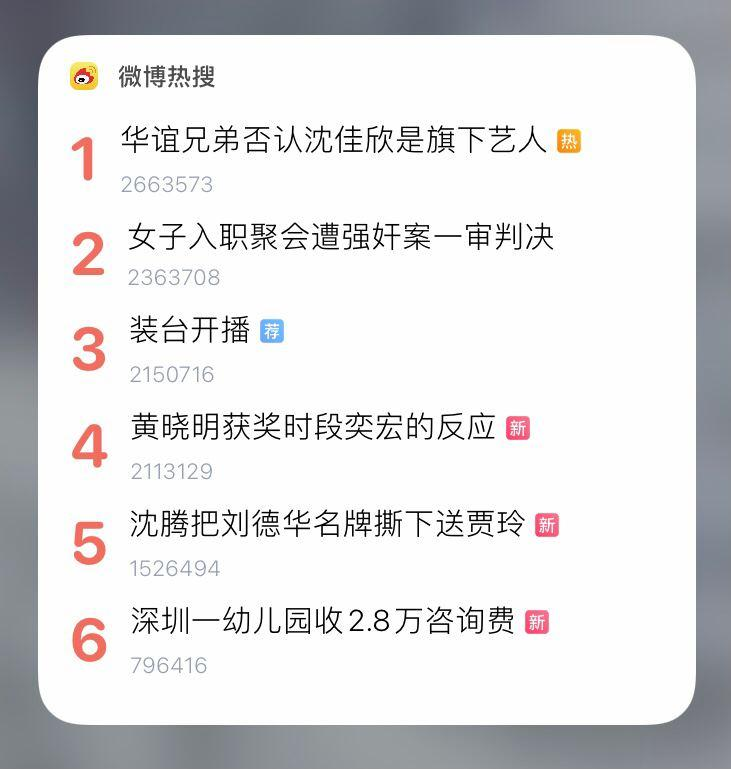
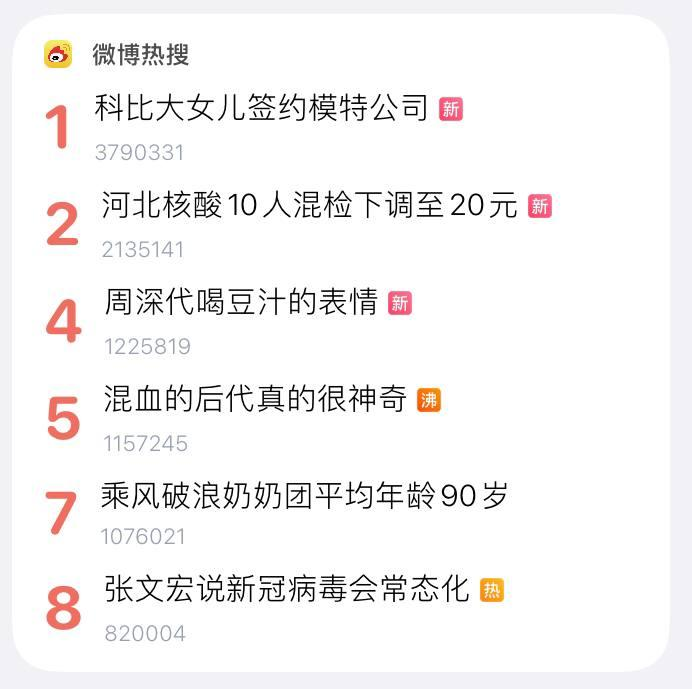
update 微博热搜，去除广告

diff --git a/微博热搜.js b/微博热搜.js
@@ -726,7 +726,7 @@ const Running = async (Widget, default_args = "") => {
       const alert = new Alert()
       alert.title = M.name
       alert.message = M.desc
-      // alert.addAction("反馈交流")
+      alert.addAction("反馈交流")
       for (let _ in actions) {
         alert.addAction(_)
         _actions.push(actions[_])
@@ -778,7 +778,6 @@ class Widget extends Base {
     // 去除第一条
     data.shift()
     let topic = data[0]
-    console.log(topic)
     // 显示数据
     let w = new ListWidget()
     w = await this.renderHeader(w, 'https://ss2.bdstatic.com/70cFvnSh_Q1YnxGkpoWK1HF6hhy/it/u=2225458401,2104443747&fm=26&gp=0.jpg', '微博热搜')
@@ -825,6 +824,10 @@ class Widget extends Base {
     bodyLeft.layoutVertically()
     for (let i = 0; i < count; i ++) {
       let topic = data[i]
+      if (topic['icon'] && topic['icon'].indexOf("jian") != -1) {
+        count = count+1;
+        continue;
+      }
       let dom = bodyLeft.addStack()
       dom.centerAlignContent()
       let number = dom.addText((i+1).toString())

diff --git a/README.md b/README.md
@@ -7,7 +7,7 @@ const FILE_MGR = FileManager[module.filename.includes('Documents/iCloud~') ? 'iC
 const Scripts = [
   '知乎热榜.js',
   '微博热搜.js',
-  'B 站排行榜.js',
+  'B站排行榜.js',
   'V2EX.js',
   '步行街热帖.js'
 ]
@@ -18,23 +18,25 @@ await Promise.all(Scripts.map(async js => {
 }));
 FILE_MGR.remove(module.filename);
 ```
-## 图片
-##### 1. 微博热搜
+### 1. 微博热搜
+> 去除 zzzq 和广告，可以设置点击链接后打开的客户端，支持微博和国际版微博。
 <div><img src="./img/weibo.jpg" width="50%"></img></div>
 
-##### 2. V2EX
+### 2. V2EX
 <div><img src="./img/v2ex.jpg" width="50%"></img></div>
 
-##### 3. B 站排行榜
+### 3. B 站排行榜
+> 可以设置分区，包括数码区，知识区，舞蹈区，鬼畜区，生活区，点击后打开哔哩哔哩 APP
 <div><img src="./img/bilibili.jpg" width="50%"></img></div>
 
-##### 4. 知乎热榜
+### 4. 知乎热榜
 <div><img src="./img/zhihu.jpg" width="50%"></img></div>
 
-##### 5. 虎扑步行街
+### 5. 虎扑步行街
 <div><img src="./img/hupu.jpg" width="50%"></img></div>
 
-##### 6. 重邮教务在线
+### 6. 重邮教务在线
+> 仅限重邮学生使用
 <div><img src="./img/jwzx.jpg" width="50%"></img></div>
 
 ## 感谢
